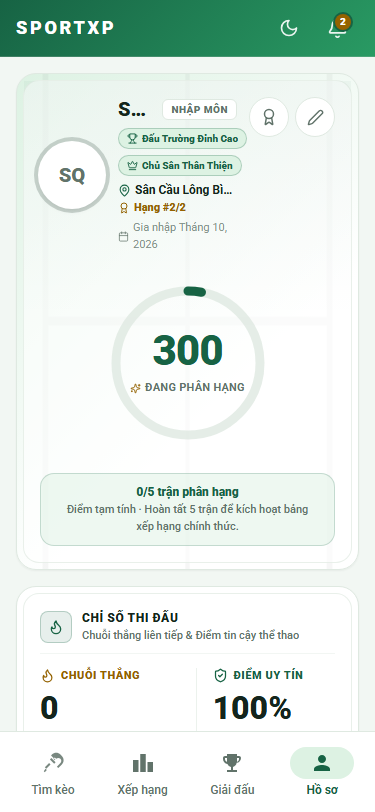
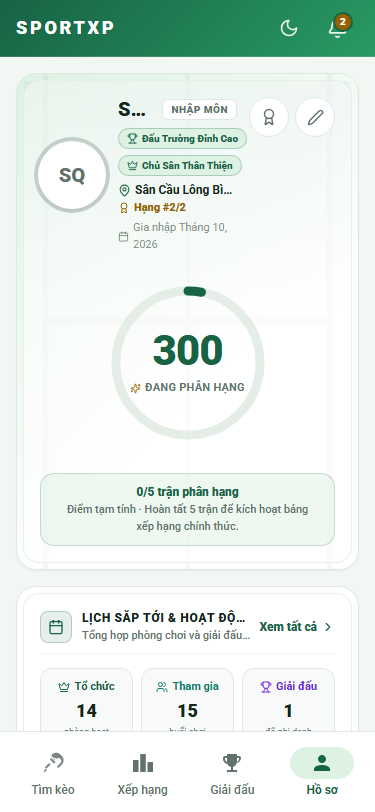
feat(profile): move upcoming events section directly below user hero and above performance metrics

Changed region(s): [[0.088, 0.7389, 0.8507, 0.8929]]

diff --git a/frontend/src/features/profile/presentation/pages/DevProfilePreviewPage.tsx b/frontend/src/features/profile/presentation/pages/DevProfilePreviewPage.tsx
@@ -213,25 +213,25 @@ export const DevProfilePreviewPage: React.FC = () => {
           }}
         />
 
-        {/* 2. Win Streak & Trust Score Card (Performance Metrics) */}
-        <PerformanceMetricsCard player={FIXTURE_PROFILE} />
-
-        {/* 3. Stats Grid */}
-        <StatsGrid stats={stats} sourceNote="Dữ liệu mẫu preview 10 trận" />
-
-        {/* 4. Recent Form */}
-        <RecentFormDots form={stats.recentForm} />
-
-        {/* 5. Elo History Chart */}
-        <EloHistoryChart points={eloPoints} />
-
-        {/* 6. Upcoming Block ("Sắp tới") */}
+        {/* 2. Upcoming Block ("Sắp tới" - moved directly below user hero) */}
         <ProfileUpcomingSection
           events={FIXTURE_EVENTS}
           roomsHostedCount={3}
           roomsJoinedCount={8}
           tournamentsCount={1}
         />
+
+        {/* 3. Win Streak & Trust Score Card (Performance Metrics) */}
+        <PerformanceMetricsCard player={FIXTURE_PROFILE} />
+
+        {/* 4. Stats Grid */}
+        <StatsGrid stats={stats} sourceNote="Dữ liệu mẫu preview 10 trận" />
+
+        {/* 5. Recent Form */}
+        <RecentFormDots form={stats.recentForm} />
+
+        {/* 6. Elo History Chart */}
+        <EloHistoryChart points={eloPoints} />
 
         {/* 7. Match Diary ("Hoạt động") */}
         <MatchDiarySection matches={FIXTURE_MATCHES} loading={false} />

diff --git a/frontend/src/features/profile/ProfilePage.tsx b/frontend/src/features/profile/ProfilePage.tsx
@@ -232,11 +232,11 @@ export const ProfilePage: React.FC = () => {
       {/* MOBILE / TABLET VIEW (< 1024px): Exact single column vertical sequence */}
       <div className="flex flex-col gap-4 lg:hidden">
         {heroSection}
+        {upcomingSection}
         {performanceSection}
         {statsSection}
         {recentFormSection}
         {eloChartSection}
-        {upcomingSection}
         {diarySection}
         {reminderSettingsSection}
         {actionsSection}
@@ -244,9 +244,10 @@ export const ProfilePage: React.FC = () => {
 
       {/* DESKTOP DASHBOARD VIEW (>= 1024px): Responsive 2-column Bento Grid */}
       <div className="hidden lg:grid lg:grid-cols-12 lg:gap-6 lg:items-start">
-        {/* Left Column (5 cols): Athlete Identity, Performance, Reminders & Actions */}
+        {/* Left Column (5 cols): Athlete Identity, Upcoming, Performance, Reminders & Actions */}
         <div className="lg:col-span-5 flex flex-col gap-5 lg:sticky lg:top-20">
           {heroSection}
+          {upcomingSection}
           {performanceSection}
           {reminderSettingsSection}
           {actionsSection}
@@ -257,7 +258,6 @@ export const ProfilePage: React.FC = () => {
           {statsSection}
           {recentFormSection}
           {eloChartSection}
-          {upcomingSection}
           {diarySection}
         </div>
       </div>
